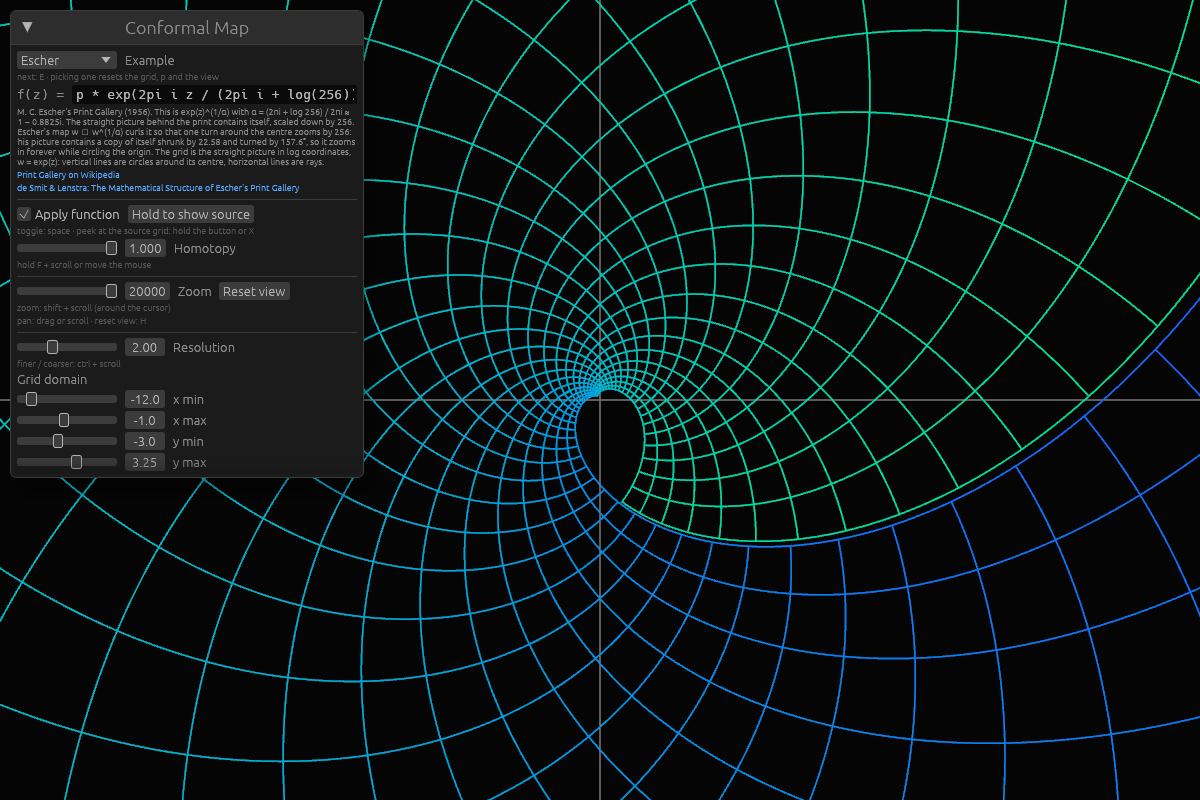
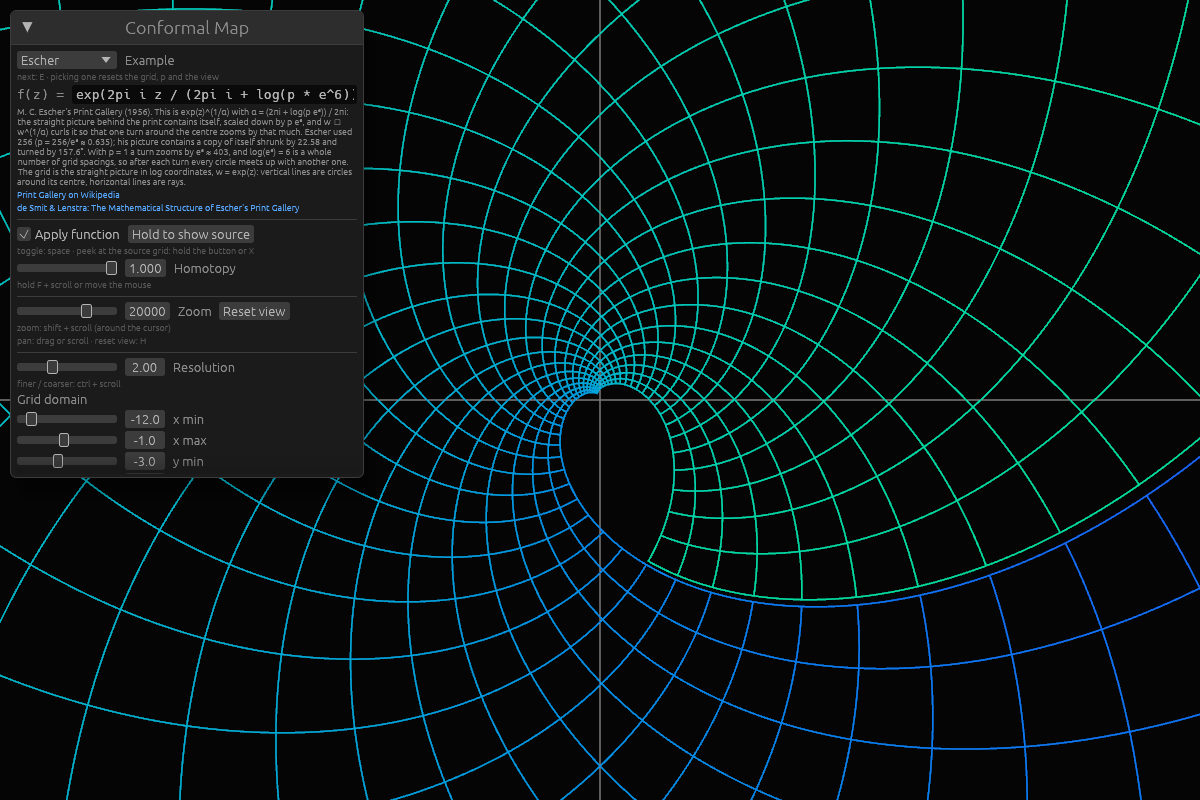
Escher example: zoom by e^6 per turn so the grid lines meet up
f(z) = exp(2πi z / (2πi + log(p e^6))) repeats after z moves by
2πi + log(p e^6), so a circle (vertical grid line) that leaves one turn
of the spiral comes back log(p e^6) further in. With Escher's 256 that
is log 256 ≈ 5.545, not a multiple of the grid spacing, so the circles
miss each other at the seam. With p = 1 it is exactly 6, a whole number
of spacings at every resolution, so they meet up. Escher's own map is
p = 256/e^6 ≈ 0.635.

diff --git a/src/main.rs b/src/main.rs
@@ -69,13 +69,15 @@ const EXAMPLES: [Example; 6] = [
     },
     Example {
         name: "Escher",
-        formula: "p * exp(2pi i z / (2pi i + log(256)))",
+        formula: "exp(2pi i z / (2pi i + log(p * e^6)))",
         about: "M. C. Escher's Print Gallery (1956). This is exp(z)^(1/α) with \
-                α = (2πi + log 256) / 2πi ≈ 1 − 0.8825i. The straight picture behind \
-                the print contains itself, scaled down by 256. Escher's map w ↦ w^(1/α) \
-                curls it so that one turn around the centre zooms by 256: his picture \
-                contains a copy of itself shrunk by 22.58 and turned by 157.6°, so it \
-                zooms in forever while circling the origin. The grid is the straight \
+                α = (2πi + log(p e⁶)) / 2πi: the straight picture behind the print \
+                contains itself, scaled down by p e⁶, and w ↦ w^(1/α) curls it so that \
+                one turn around the centre zooms by that much. Escher used 256 \
+                (p = 256/e⁶ ≈ 0.635); his picture contains a copy of itself shrunk by \
+                22.58 and turned by 157.6°. With p = 1 a turn zooms by e⁶ ≈ 403, and \
+                log(e⁶) = 6 is a whole number of grid spacings, so after each turn \
+                every circle meets up with another one. The grid is the straight \
                 picture in log coordinates, w = exp(z): vertical lines are circles \
                 around its centre, horizontal lines are rays.",
         links: &[

diff --git a/README.md b/README.md
@@ -33,7 +33,17 @@ so that one turn around the centre zooms in by 256. His picture contains a copy
 of itself shrunk by 22.58 and turned by 157.6°, so it zooms in forever while
 circling the origin. The grid here is the straight picture in log coordinates,
 w = exp(z): vertical lines are circles around its centre, horizontal lines are
-rays. The map draws them the way Escher curled them:
+rays. The map draws them the way Escher curled them.
+
+The example zooms by e⁶ ≈ 403 per turn instead of 256:
+
+$$f(z) = \exp\left(\frac{2\pi i\, z}{2\pi i + \log(p\, e^6)}\right), \qquad p = 1.$$
+
+f repeats itself after z moves by 2πi + log(p e⁶), so a circle that leaves one
+turn comes back log(p e⁶) further in. With p = 1 that is exactly 6, a whole
+number of grid spacings at every resolution, so each circle meets up with
+another one. Escher's 256 is p = 256/e⁶ ≈ 0.635, where log 256 ≈ 5.545 and
+the circles miss each other.
 
 ![Escher's Print Gallery map](examples/escher.png)
 
